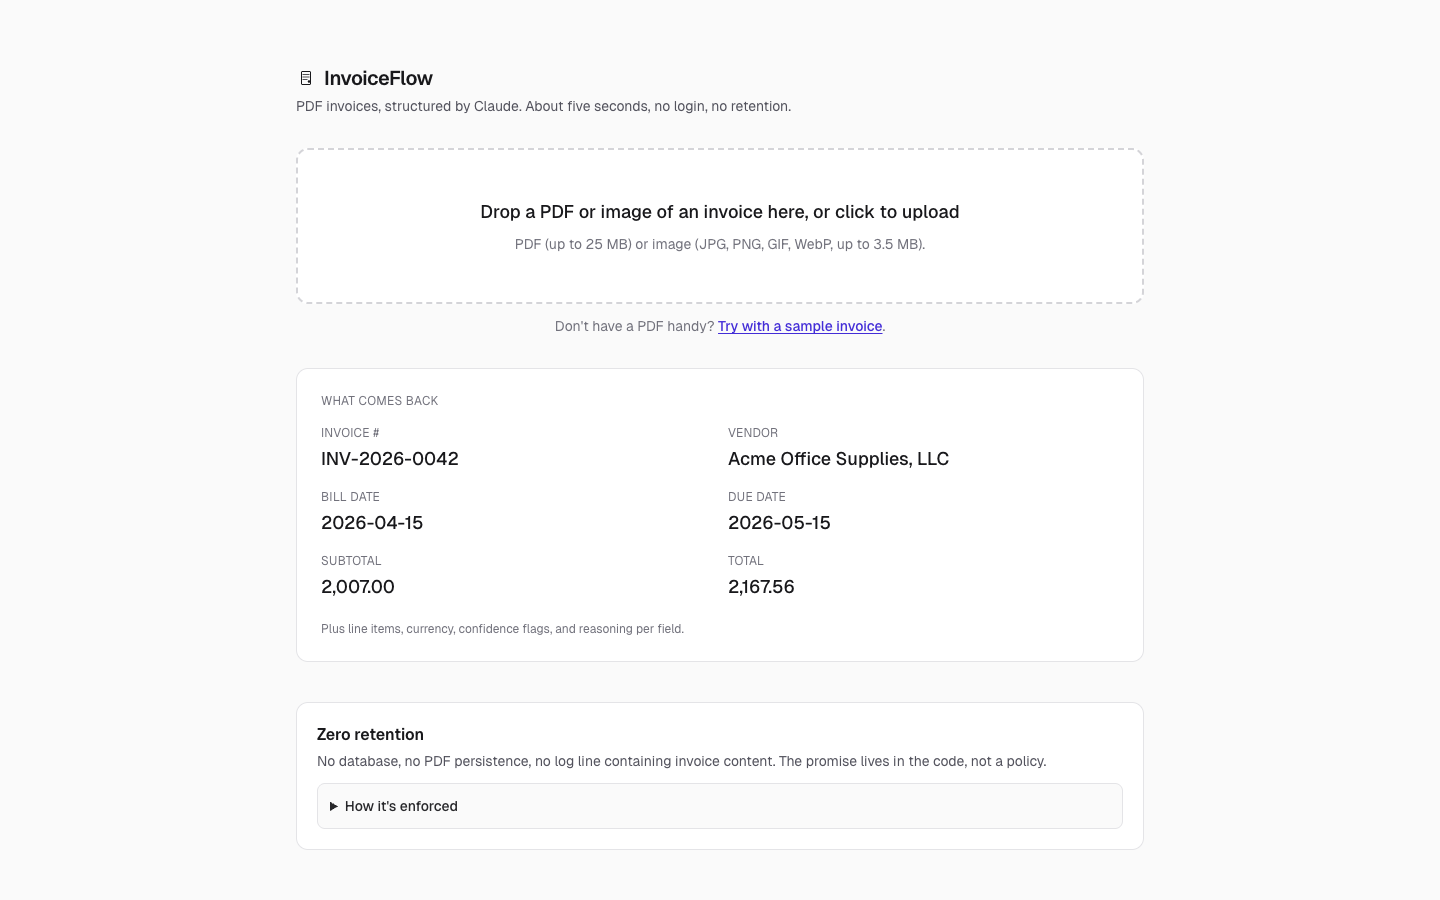
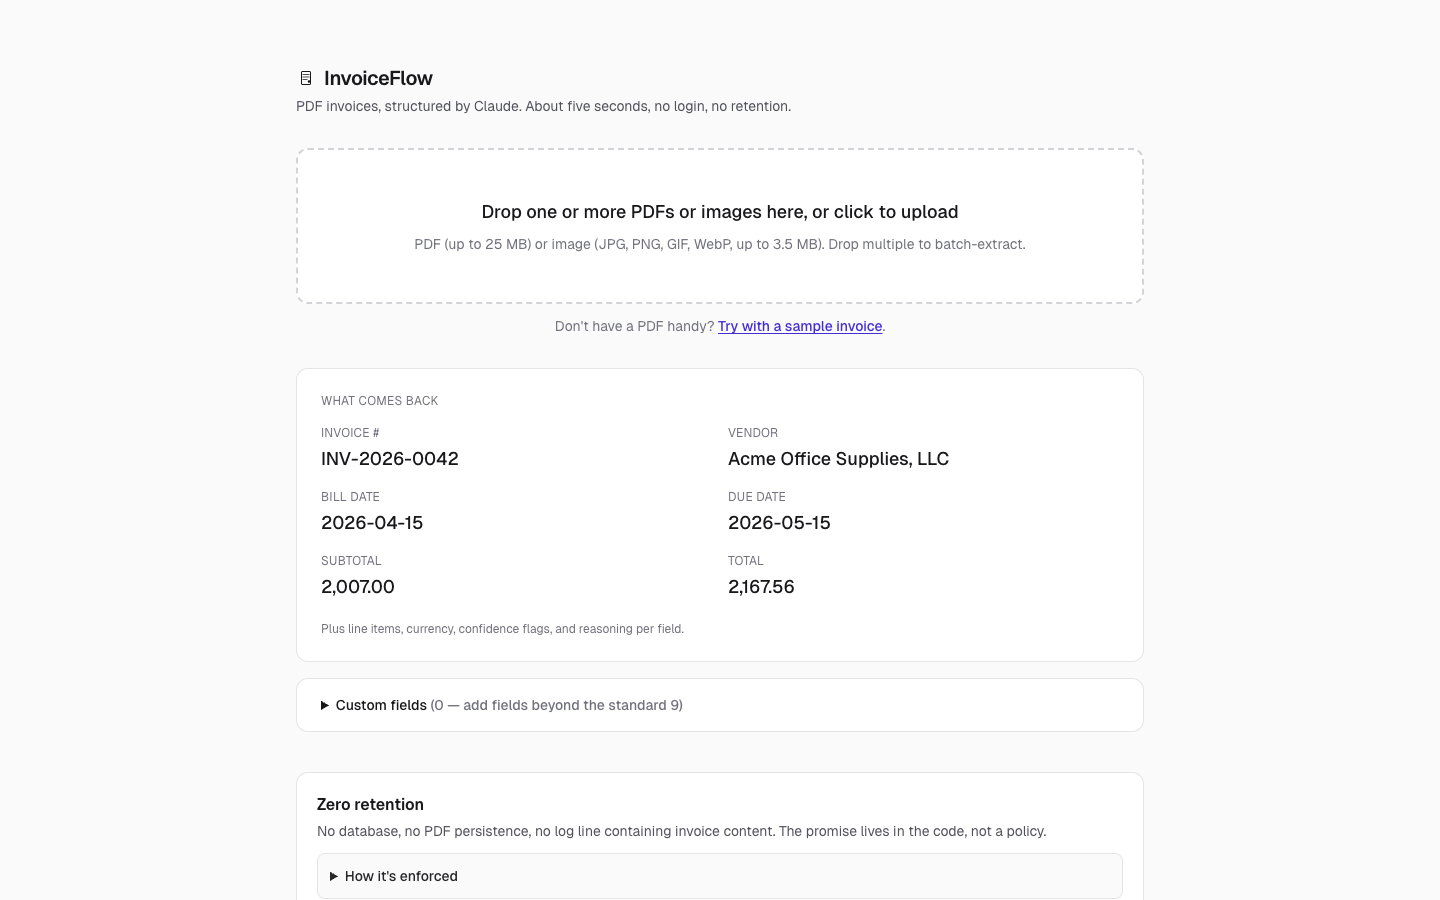
Refresh README screenshots with batch and custom-fields captures
screenshots.mjs now captures two new surfaces against the live deploy:

- batch-extraction-v2.png: three PDFs uploaded as a batch, each
  successfully extracted via real Claude calls. Shows the
  per-row status icons, extracted vendor/total/duration, and the
  bulk download buttons.
- custom-fields-v2.png: the "Custom fields" disclosure expanded with
  two user-defined fields (Cost Center, PO Reference) and their
  Claude-facing descriptions. Pure UI capture, no API call.

Switched to placeholder-based selectors (input[placeholder=...] /
textarea[placeholder^=...]) and an explicit details.open assignment
via page.evaluate, since React 19's useId() format differs from
React 18's and `<summary>` clicks can race hydration. Also fixed the
addButton matcher to target the aria-label "Add a custom field"
rather than the visible "+ Add field" text — when aria-label is set,
it becomes the accessible name.

The test-ocr-fallback.mjs script grew a header note covering the two
known broken-server states (stale Turbopack cache + missing
ANTHROPIC_API_KEY) so future runs against a misconfigured dev server
don't waste debugging time.

Vercel CLI added .env*.local to .gitignore on the env pull; harmless
overlap with the existing .env* rule, kept for consistency with what
fresh checkouts will see after running `vercel env pull`.

Changed region(s): [[0.2188, 0.7778, 0.75, 0.9333], [0.2812, 0.2178, 0.7188, 0.28], [0.25, 0.9644, 0.3125, 0.9956]]

diff --git a/README.md b/README.md
@@ -28,13 +28,18 @@ There's no login or database. Files process in memory inside a single Vercel Fun
   <img src="public/screenshots/extract-highlight-v2.png" alt="Image upload with click-to-highlight: hovering the Vendor field highlights the source region in the invoice image" width="100%">
 </p>
 
+<p align="center">
+  <img src="public/screenshots/batch-extraction-v2.png" alt="Batch upload: three PDFs extracted in parallel with per-file status icons, vendor totals, and bulk CSV download buttons" width="100%">
+</p>
+
 <table>
 <tr>
+<td width="50%"><img src="public/screenshots/custom-fields-v2.png" alt="Custom fields disclosure with two user-defined fields (Cost Center, PO Reference) and their Claude-facing descriptions"></td>
 <td width="50%"><img src="public/screenshots/extract-json-v2.png" alt="JSON view tab showing the api/extract response shape"></td>
-<td width="50%"><img src="public/screenshots/csv-export-v2.png" alt="CSV export buttons for QuickBooks and Xero schemas"></td>
 </tr>
 <tr>
-<td colspan="2"><img src="public/screenshots/error-state-v2.png" alt="Typed error surface with code, retry guidance, and correlation id"></td>
+<td width="50%"><img src="public/screenshots/csv-export-v2.png" alt="CSV export buttons for QuickBooks and Xero schemas"></td>
+<td width="50%"><img src="public/screenshots/error-state-v2.png" alt="Typed error surface with code, retry guidance, and correlation id"></td>
 </tr>
 </table>
 
